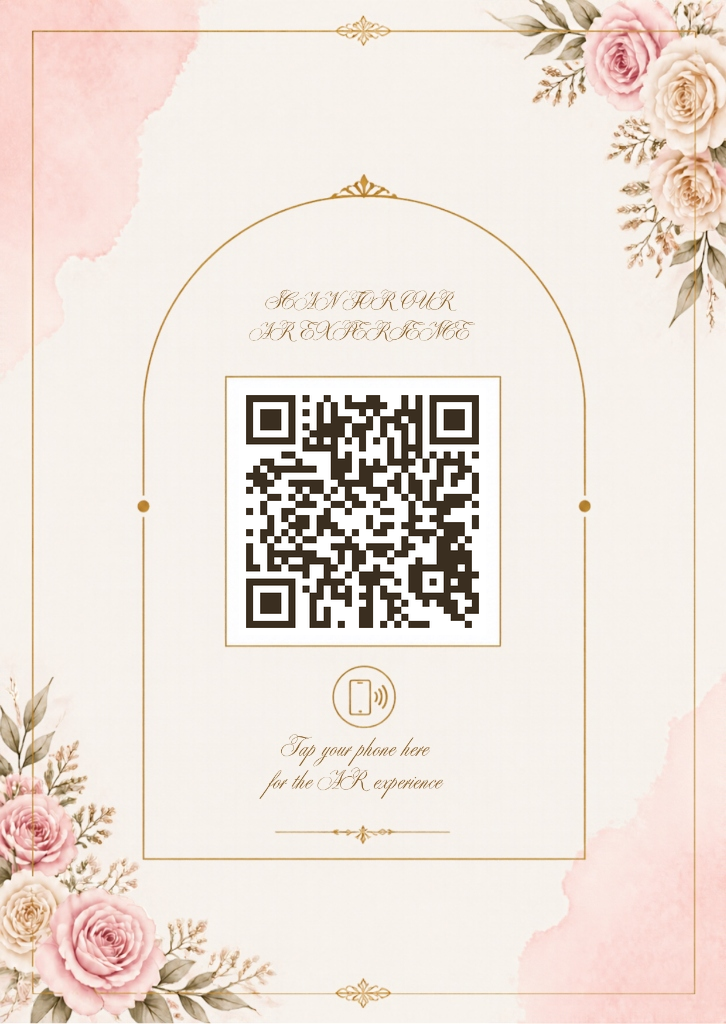
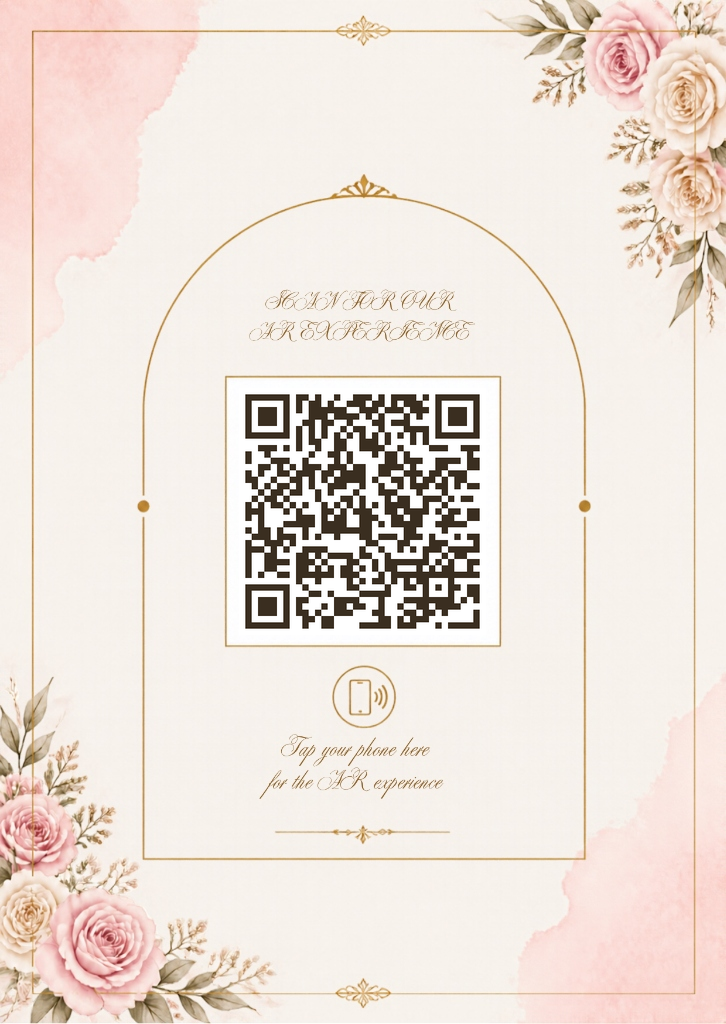
Add project README and update QR code with GitHub Pages URL

Changed region(s): [[0.3333, 0.375, 0.6667, 0.625]]

diff --git a/create_qr_back.py b/create_qr_back.py
@@ -3,7 +3,7 @@ import numpy as np
 import qrcode
 from PIL import Image
 
-def generate_card_back(url="https://vandan-riddhi.wedding/ar"):
+def generate_card_back(url="https://vandanbhatt.github.io/wedding-ar/"):
     back_img = Image.open("card_back.jpg").convert("RGB")
     bw, bh = back_img.size
 

diff --git a/README.md b/README.md
@@ -1,0 +1,28 @@
+# Vandan & Riddhi – 3D Wedding AR Experience 💍✨
+
+A luxury 2.5D holographic Augmented Reality wedding experience designed for **Vandan & Riddhi's Save-the-Date Card** (29.12.2027).
+
+Guests can tap their phone against the physical NFC PVC card or scan the back-of-card QR code to experience Vandan and Riddhi popping out in full 3D right from the printed floral arch—directly in mobile browser WebAR (no app download required).
+
+---
+
+## 🌐 Live WebAR Experience
+👉 **[View Live WebAR Experience](https://vandanbhatt.github.io/wedding-ar/)**
+
+---
+
+## 💎 Photographic Identity & Quality
+- **100% Original Faces Preserved:** Vandan and Riddhi's faces, smiles, skin tones, hair details, outfits, and traditional jewelry have been preserved bit-for-bit from the original photograph (`JAI_3712.JPG`).
+- **No AI Facial Generation:** No synthetic redraws, AI faces, or beauty retouching.
+- **Neural Alpha Extraction:** Clean background separation leaving original RGB pixels completely unaltered.
+
+---
+
+## 📦 Repository Structure
+- `index.html`: Interactive 3D WebAR viewer supporting WebXR (Android Chrome) and Quick Look (iOS Safari).
+- `output/vandan_riddhi_card_3D_AR.glb`: Ultralight **596 KB** card-matched 3D model with calibrated depth.
+- `output/vandan_riddhi_3D_AR.glb`: Deluxe **8.2 MB** 2.5D garden photo model with champagne-gold frame and backing.
+- `output/vandan_riddhi_card_back_with_qr.png`: Print-ready card back with high-resolution QR code pointing to this site.
+- `output/vandan_riddhi_cutout.png`: Full-resolution isolated couple PNG ($3712 \times 5568$).
+- `output/vandan_riddhi_card_3D_AR.blend`: Native Blender 5.3 scene file for the card pop-out.
+- `output/vandan_riddhi_3D_AR.blend`: Native Blender 5.3 scene file for the deluxe photo frame.
